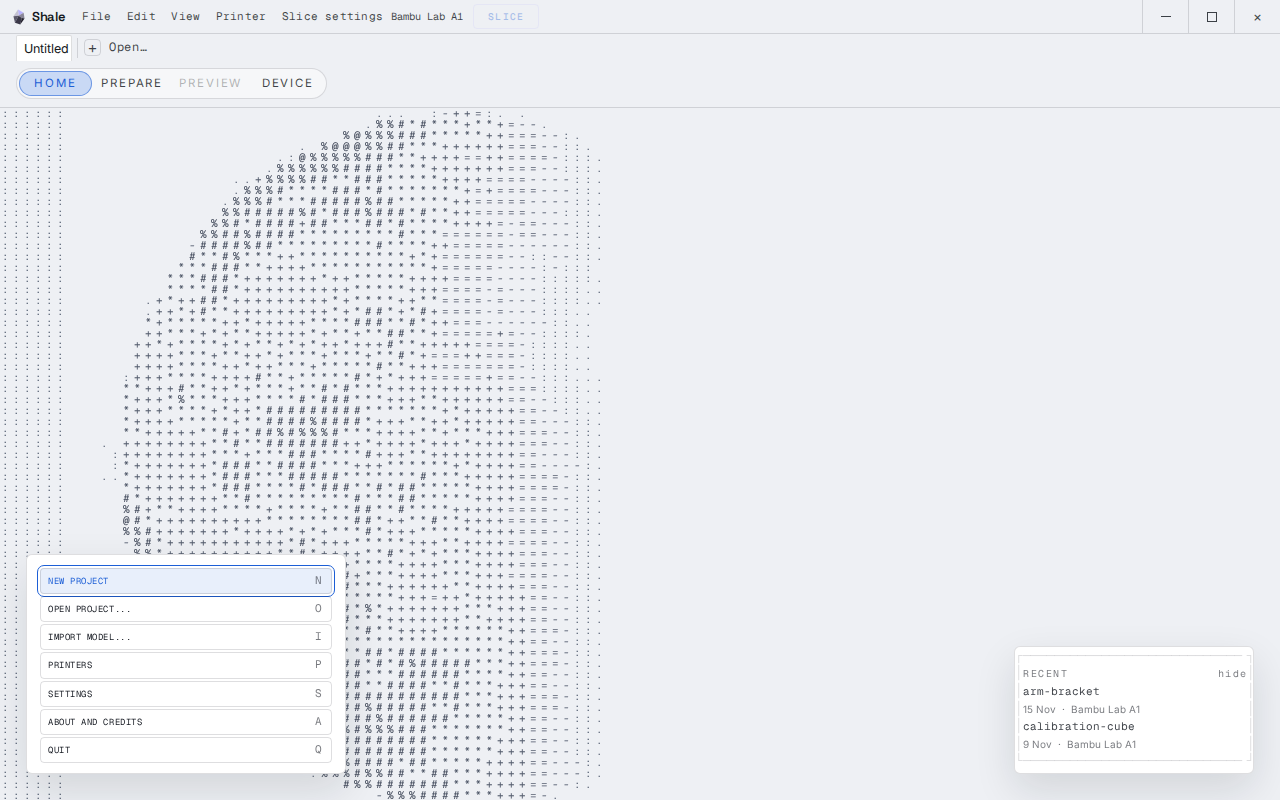
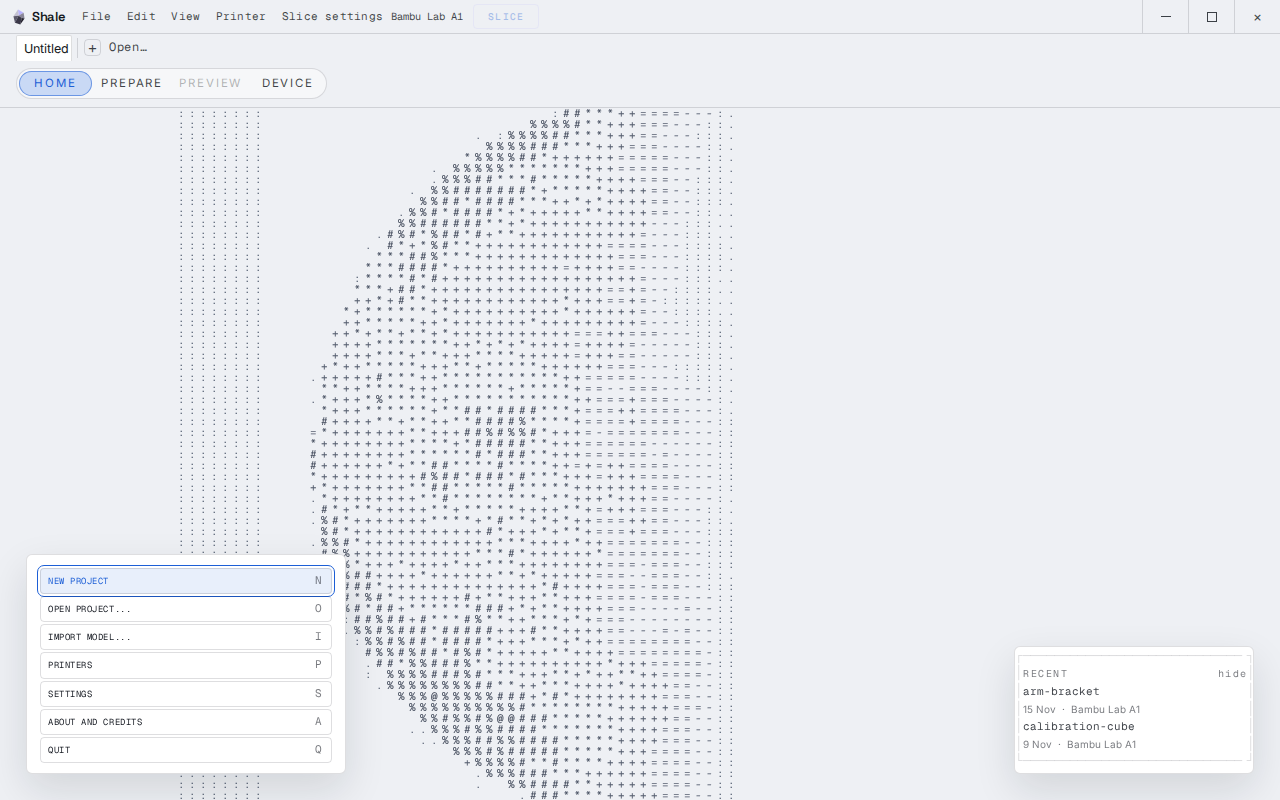
fix(desktop): balance Nebula plate and trim Lunar edge artefact
Use source-colour sampling and milder Crab processing for Nebula; mask
the lunar plate left gutter and nudge fit. Regenerate home captures.

Changed region(s): [[0.0938, 0.125, 0.5312, 1.0]]

diff --git a/apps/desktop/src/ui-styles.ts b/apps/desktop/src/ui-styles.ts
@@ -86,13 +86,13 @@ export const UI_STYLES: readonly UiStyleDefinition[] = [
     swatch: { bg: "#09060e", panel: "#120a1a", accent: "#e07aff", ink: "#efe6f8" },
     plateBackground: [9, 6, 14],
     plateTune: {
-      lumaPower: 0.9,
-      lumaGain: 0.44,
-      lumaFloor: 0.12,
-      fitScaleMul: 0.8,
-      fitBiasX: -0.16,
-      fitBiasY: -0.04,
-      glyphFrom: "nebula",
+      lumaPower: 0.48,
+      lumaGain: 0.92,
+      lumaFloor: 0.05,
+      fitScaleMul: 0.9,
+      fitBiasX: -0.11,
+      fitBiasY: -0.02,
+      glyphFrom: "pixel",
       twinklePeriod: 0,
     },
   },
@@ -114,8 +114,8 @@ export const UI_STYLES: readonly UiStyleDefinition[] = [
       lumaPower: 0.55,
       lumaGain: 1.12,
       lumaFloor: 0.05,
-      fitScaleMul: 0.82,
-      fitBiasX: -0.06,
+      fitScaleMul: 0.84,
+      fitBiasX: 0.03,
       glyphFrom: "graphite",
       glyphTintLo: [108, 118, 136],
       glyphTintHi: [42, 50, 68],

diff --git a/apps/desktop/src/field/paint.ts b/apps/desktop/src/field/paint.ts
@@ -120,8 +120,14 @@ export function createField(
         const index = row * cols + col;
         const cx = col * CELL + CELL / 2;
         const cy = row * CELL + CELL / 2;
-        const localX = Math.min(drawW - 0.001, Math.max(0, cx - originX + shiftX));
-        const localY = Math.min(drawH - 0.001, Math.max(0, cy - originY + shiftY));
+        const rawX = cx - originX + shiftX;
+        const rawY = cy - originY + shiftY;
+        if (rawX < 0 || rawY < 0 || rawX >= drawW || rawY >= drawH) {
+          baseGlyph[index] = 0;
+          continue;
+        }
+        const localX = rawX;
+        const localY = rawY;
         const sx = Math.min(iw - 1, Math.floor((localX / drawW) * iw));
         const sy = Math.min(ih - 1, Math.floor((localY / drawH) * ih));
         const pixel = (sy * iw + sx) * 4;
